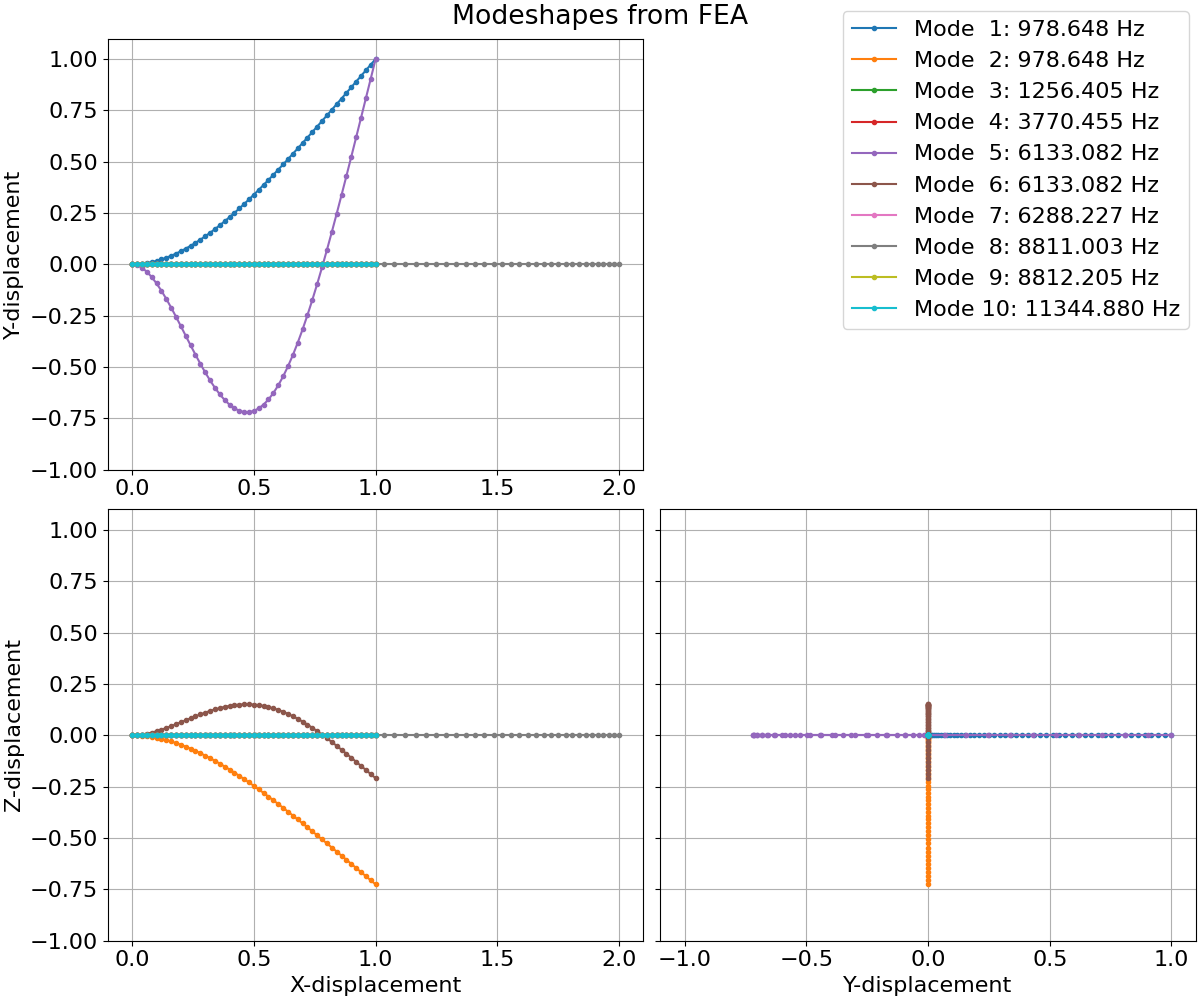
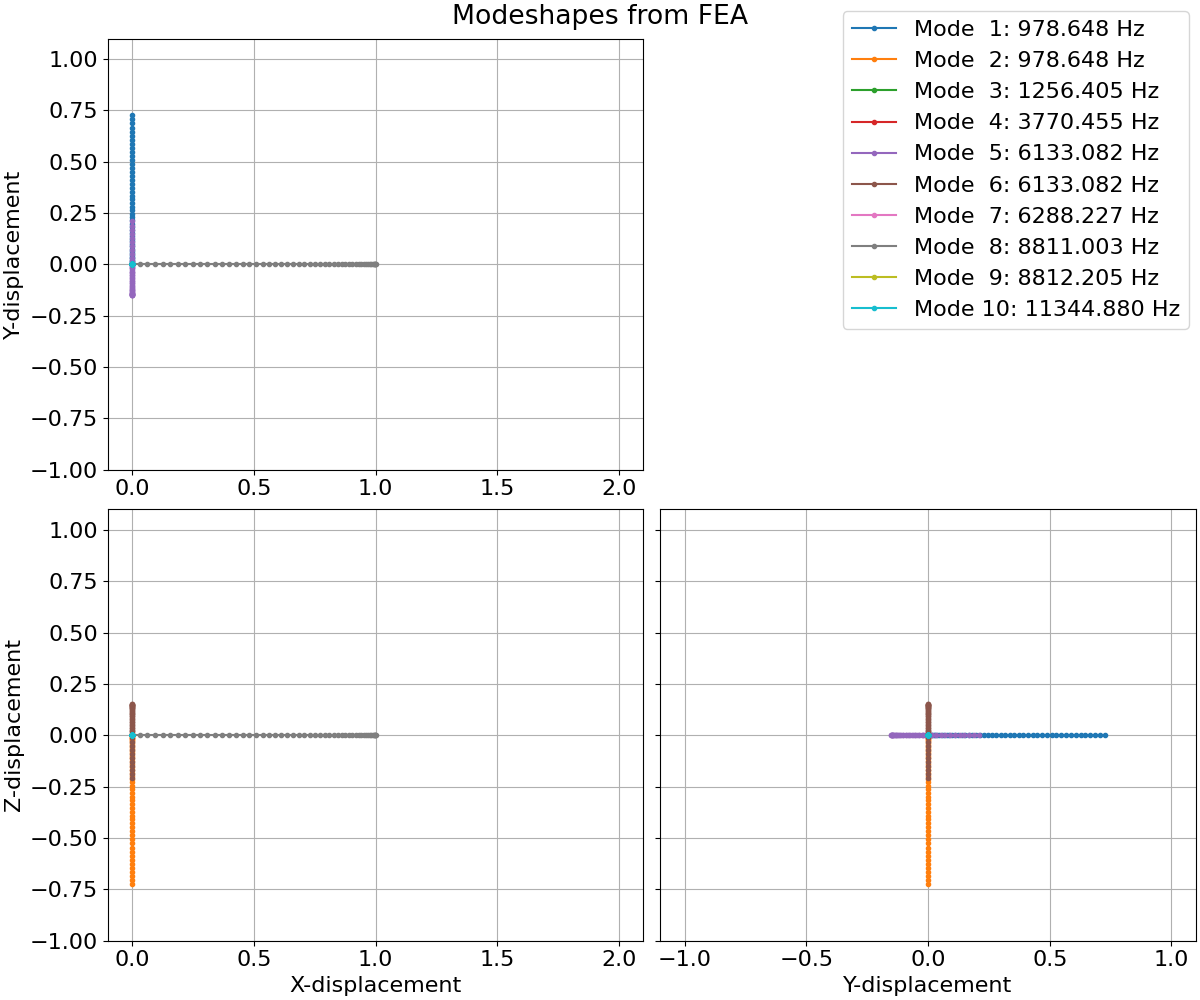
Working modal reduction!

diff --git a/run_fea.py b/run_fea.py
@@ -118,11 +118,13 @@ def UniformBeam():
             IBC2Full[k]=i
             k+=1
     
-    Qr, eigfreqs = Eigenproblem(nDOF_r, Mr, Kr)
+    Qr, eigfreqs, spectr = Eigenproblem(Mr, Kr)
+    # Add fixed BC back into eigenvectors
     Q = Tr.dot(Qr)
     
     nModes = 10
-    x_nodes = np.zeros((nNode,nModes))
+    # Need to add original shape of x_nodes to get displacements
+    x_nodes = np.reshape(np.tile(x_beamnode,nModes),(nNode,nModes),order='F')
     y_nodes = np.zeros((nNode,nModes))
     z_nodes = np.zeros((nNode,nModes))
     z_d_nodes = np.zeros((nNode,nModes))
@@ -151,11 +153,11 @@ def UniformBeam():
     print('Mode 10 Nat. Period: %2.5f s, (%3.3f Hz)' %((1./eigfreqs[9]), (eigfreqs[9])))
 
 	## --- Check Frequencies
-    M_modal = ModalMass(M_beam, z_nodes)
-    K_modal = ModalStiff(D_beam, wt_beam, L_beam, np.zeros(nElem), z_d_nodes, z_dd_nodes)
+    M_modal = Q[:,:nModes].T @ M_glob @ Q[:,:nModes]
+    K_modal = Q[:,:nModes].T @ K_glob @ Q[:,:nModes]
 
-    eig_vals, eig_vecs = scipy.linalg.eig(M_modal, K_modal)
-    modal_freqs = np.sqrt(1./np.real(eig_vals))
+    eig_vals, eig_vecs = scipy.linalg.eig(K_modal, M_modal)
+    modal_freqs = np.sort(np.sqrt(np.real(eig_vals)) /(2*np.pi))
 	
     print('----- FROM MODAL MATRICES -----')
     print('Mode 1 Nat. Period: %2.5f s, (%3.3f Hz)' %((1./modal_freqs[0]), (modal_freqs[0])))
@@ -213,8 +215,7 @@ def UniformBeam():
     # return FEM
 
 def plotFEM(FEM):
-    x_nodes_0 = FEM['xNodes']
-    x_nodes = np.zeros_like(x_nodes_0) 
+    x_nodes = FEM['xNodes']
     y_nodes = FEM['yNodes']
     z_nodes = FEM['zNodes']
     nModes = FEM['nModes']
@@ -226,7 +227,6 @@ def plotFEM(FEM):
     fig1, axs = plt.subplot_mosaic([['ul', '.'], ['ll', 'lr']], figsize=(12, 10), layout="constrained", sharey=True)
 
     for i in range(nModes):
-        x_nodes[:,i] = x_nodes_0[:,i] + np.linspace(0,1,len(FEM['xNodes']))
         axs['ul'].plot(x_nodes[:,i], y_nodes[:,i], label='Mode %2d: %2.3f Hz' %((i+1, eigfreqs[i])), ls='-', marker='o', ms=3)
         axs['ll'].plot(x_nodes[:,i], z_nodes[:,i], label='Mode %2d: %2.3f Hz' %((i+1, eigfreqs[i])), ls='-', marker='o', ms=3)
         axs['lr'].plot(y_nodes[:,i], z_nodes[:,i], label='Mode %2d: %2.3f Hz' %((i+1, eigfreqs[i])), ls='-', marker='o', ms=3)

diff --git a/modeshape.py b/modeshape.py
@@ -12,20 +12,6 @@ def Modeshape(nNode, nElem, nDOFperNode, eigvec):
     th_y_beamnode = eigvec[4:(nElem + 6) * nDOFperNode:nDOFperNode]
     th_z_beamnode = eigvec[5:(nElem + 6) * nDOFperNode:nDOFperNode]
 
-    # z_beamnode[1:] = eigvec[0:(nElem + 1) * nDOFperNode:nDOFperNode]
-    # rot_beamnode[1:] = eigvec[1:(nElem + 2) * nDOFperNode:nDOFperNode]
-
-    # For cantilever beam, scale on y nodes
-    max_y_node_idx = np.argmax(np.abs(y_beamnode))
-    max_y_node = y_beamnode[max_y_node_idx]
-    
-    if not max_y_node == 0:
-        x_beamnode = x_beamnode / max_y_node
-        y_beamnode = y_beamnode / max_y_node
-        z_beamnode = z_beamnode / max_y_node
-
-    # print('Spar rot [deg]:', *np.round(rot_sparnode*(180/np.pi),5), sep=', ')
-    # print('Beam rot [deg]:', *np.round(rot_beamnode*(180/np.pi),5), sep=', ')
     return x_beamnode, y_beamnode, z_beamnode
 
 def SplineLHS(x_beamnode):

diff --git a/eigenproblem.py b/eigenproblem.py
@@ -1,7 +1,7 @@
 import numpy as np
 import scipy.linalg
 
-def Eigenproblem(nDOF, M_mode, K_mode):
+def Eigenproblem(M_mode, K_mode):
     """
     returns:
        Q     : matrix of column eigenvectors
@@ -44,7 +44,7 @@ def Eigenproblem(nDOF, M_mode, K_mode):
         print('[WARN] Found {:d} complex eigenvectors at positions {}/{}'.format(sum(bb),W,Q.shape[0]))
     Lambda = np.real(Lambda)
 
-    return Q,Lambda
+    return Q,Lambda,np.diag(lambdaDiag)
 
 # --------------------------------------------------------------------------------}
 # --- Mode tools 
